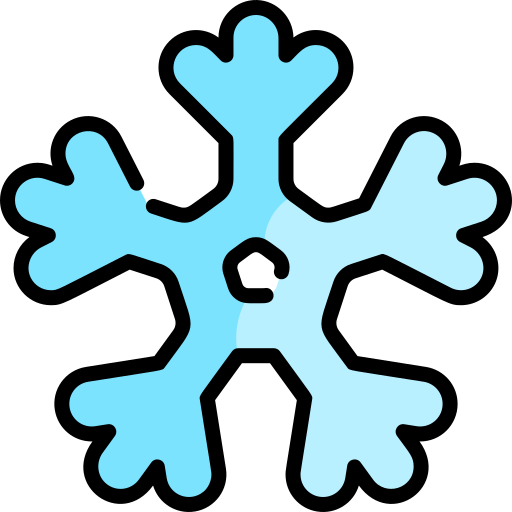
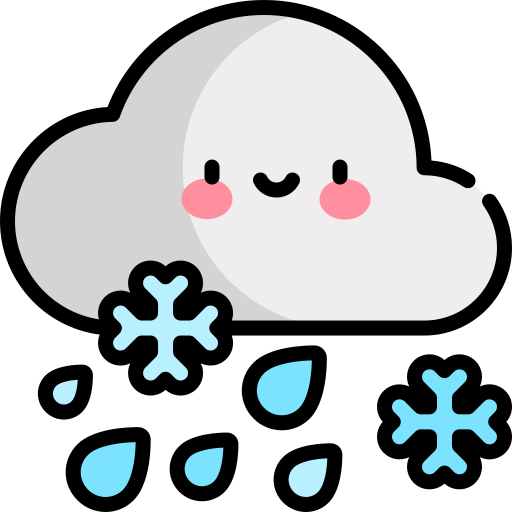
feature/add-section-carrousel: add breakpoints for desktop, tablet and mobile

diff --git a/src/components/WeatherCard.vue b/src/components/WeatherCard.vue
@@ -1,6 +1,16 @@
 <template>
   <v-card class="mt-4 ntr-regular" color="primary" variant="tonal">
   <v-card-title>Het weer voor {{ cityName }}</v-card-title>
+
+    <!-- Weather icon image -->
+    <div class="weather-icon-wrapper">
+      <img
+        :src="getWeatherIconUrl(data.current.weather[0].icon)"
+        :alt="data.current.weather[0].description"
+        class="weather-icon"
+      />
+    </div>
+
     <v-card-text>
       <v-row>
         <v-col cols="12" sm="6">
@@ -46,6 +56,10 @@ defineProps<{
   cityName: string
   data: WeatherResponse
 }>()
+
+const getWeatherIconUrl = (iconCode: string) =>
+  new URL(`@/assets/${iconCode}.png`, import.meta.url).href
+
 
 // function capitalizeFirst(str: string) {
 //   return str.charAt(0).toUpperCase() + str.slice(1)

diff --git a/src/styles/main.scss b/src/styles/main.scss
@@ -31,3 +31,21 @@ body {
     max-width: 640px; // Optional: fixed max width for large desktops
   }
 }
+
+.weather-icon-wrapper {
+  display: flex;
+  justify-content: center;
+  align-items: center;
+  padding: 1rem 0;
+}
+
+.weather-icon {
+  height: 80px; // 👈 Change this value as needed
+  width: auto;
+}
+
+@media (max-width: 600px) {
+  .weather-icon {
+    height: 64px;
+  }
+}

diff --git a/src/composables/useWeatherSearch.ts b/src/composables/useWeatherSearch.ts
@@ -92,7 +92,7 @@ export function useWeatherSearch() {
 
         const lat = position.coords.latitude.toString()
         const lon = position.coords.longitude.toString()
-        fetchWeather(lat, lon, 'your location')
+        fetchWeather(lat, lon, 'jouw locatie')
       },
       (error) => {
         if (resolved) return
